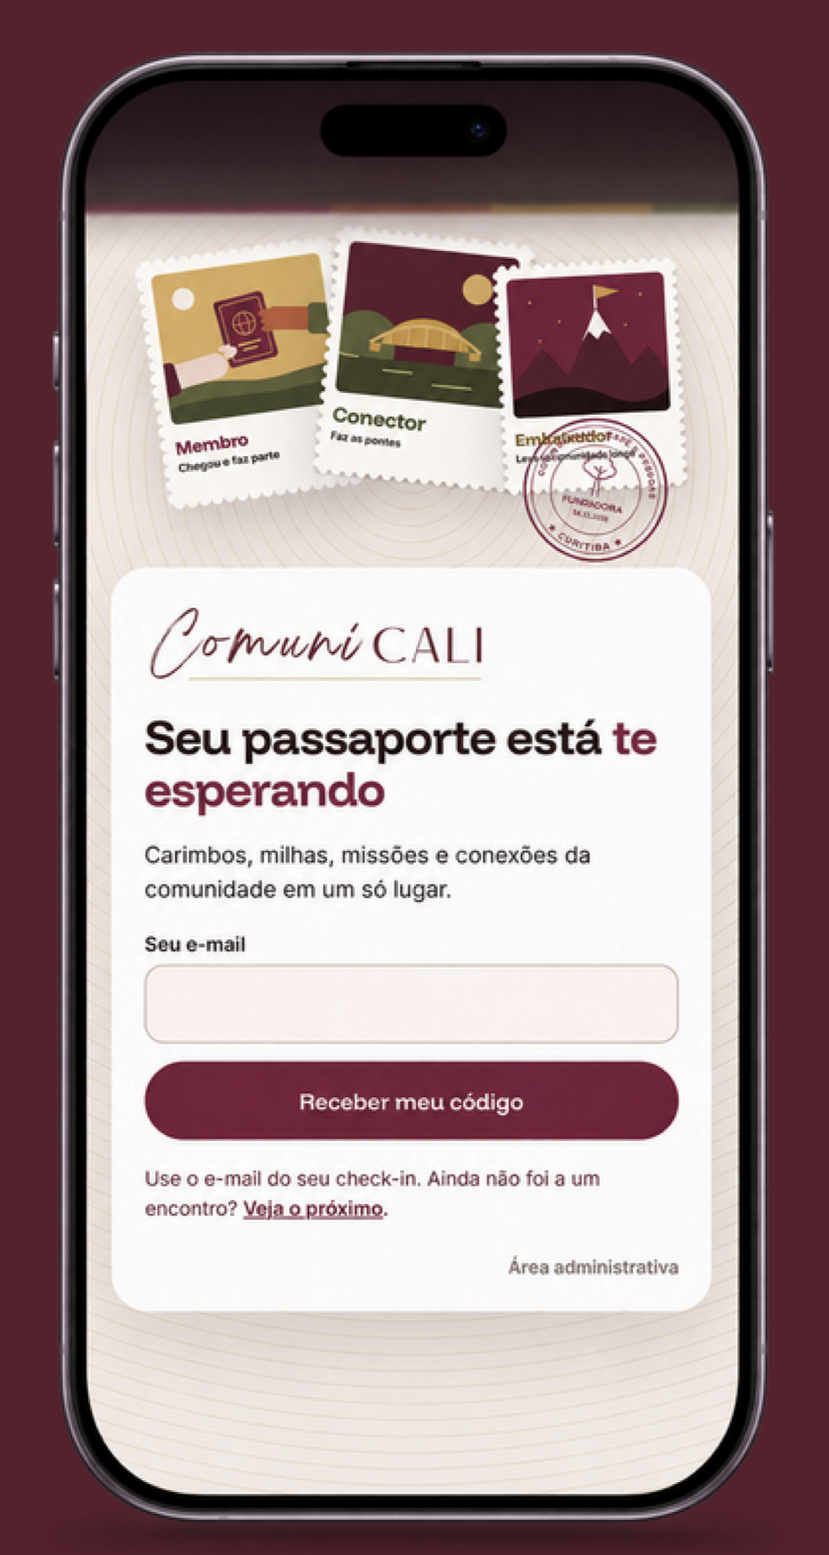
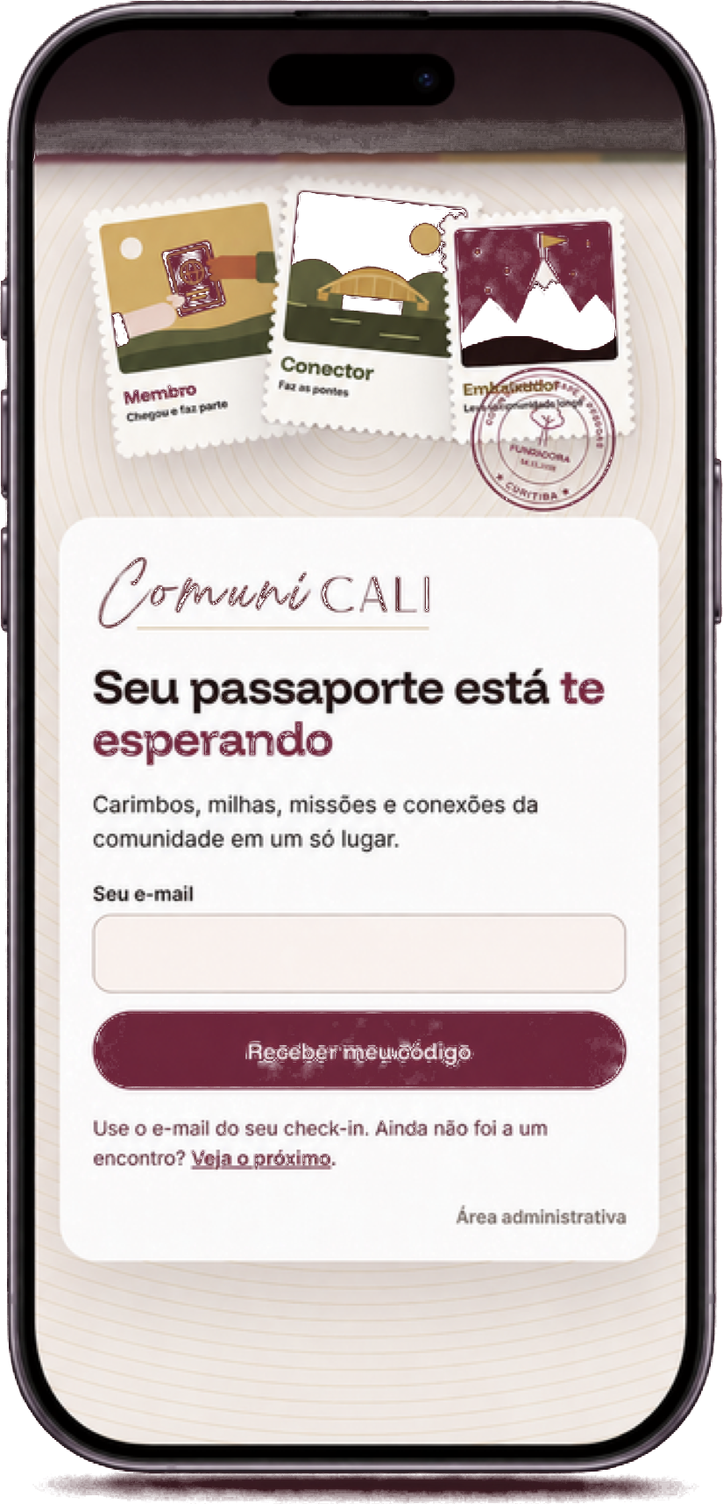
Versão nova mais limpa: selos empilhados que viram, comunidade curta, app menor, fundo claro na jornada e animações suaves

diff --git a/src/pages/Home.tsx b/src/pages/Home.tsx
@@ -119,64 +119,58 @@ const PASSAPORTE = [
   ['Milhas', 'Tudo o que você vive na comunidade soma milhas e mostra até onde a sua jornada já chegou.'],
 ];
 
-const PEOPLE_CARDS = ['fundadora', 'embaixadores'] as const;
-
 function People({ joinHref }: { joinHref: string }) {
-  const [current, setCurrent] = useState(0);
+  void joinHref;
   return (
-    <div className="people">
-      <div className="people__track" style={{ '--current': current } as CSSProperties}>
-        <article className={`person${current === 0 ? ' is-on' : ''}`}>
-          <div className="person__photo">
-            <img src="/fotos/patricia-lima.jpg" alt="Patrícia Lima" />
-            <span className="person__carimbo"><small>ComuniCALI</small>Idealizadora</span>
-          </div>
-          <div className="person__body">
-            <h3>Patrícia Lima</h3>
-            <p className="muted">People Advisory Executive, fundadora da CALI RH</p>
-            <p>Há <strong>mais de 16 anos</strong> no planejamento do RH das empresas, ao lado de lideranças e equipes. Criou a ComuniCALI para que a <strong>conversa sobre pessoas</strong> saísse dos grupos de repasse e virasse <strong>relacionamento</strong>.</p>
-            <a className="outline" href="https://www.linkedin.com/in/patriciaazumi/" target="_blank" rel="noopener noreferrer">Conhecer no LinkedIn</a>
-          </div>
-        </article>
-        <article className={`person person--selo${current === 1 ? ' is-on' : ''}`}>
-          <div className="person__selo"><img src="/selos/postal-embaixador.png" alt="Selo Embaixador" /></div>
-          <div className="person__body">
-            <p className="tag">Embaixadores</p>
-            <h3>Quem contribui, a comunidade reconhece.</h3>
-            <p>Quem participa, contribui e conecta pessoas pode se tornar <strong>embaixador</strong> da ComuniCALI. O caminho começa como visitante, passa por membro e conector, e <strong>leva a comunidade longe</strong>.</p>
-            <a className="outline" href="#programa">Ver a jornada</a>
-          </div>
-        </article>
+    <article className="person is-on">
+      <div className="person__photo">
+        <img src="/fotos/patricia-lima.jpg" alt="Patrícia Lima" />
+        <span className="person__carimbo"><small>ComuniCALI</small>Idealizadora</span>
       </div>
-      <div className="people__nav">
-        {PEOPLE_CARDS.map((card, index) => <button key={card} type="button" aria-label={`Ver cartão ${index + 1}`} className={index === current ? 'is-on' : ''} onClick={() => setCurrent(index)} />)}
-        <button type="button" className="people__next" aria-label="Próximo cartão" onClick={() => setCurrent((current + 1) % PEOPLE_CARDS.length)}><ArrowRight size={16} aria-hidden="true" /></button>
+      <div className="person__body">
+        <h3>Patrícia Lima</h3>
+        <p className="muted">People Advisory Executive, fundadora da CALI RH</p>
+        <p>Há mais de 16 anos no planejamento do RH das empresas. Criou a ComuniCALI para que a conversa sobre pessoas virasse relacionamento.</p>
+        <a className="outline" href="https://www.linkedin.com/in/patriciaazumi/" target="_blank" rel="noopener noreferrer">Conhecer no LinkedIn</a>
       </div>
-    </div>
+    </article>
   );
 }
 
 const CATEGORIAS = [
-  ['convidado', 'Convidado', 'Chegou a convite', 'Quem é indicado por um membro e vem conhecer a comunidade no encontro. Ainda não pontua: a pontuação começa ao se tornar visitante.'],
-  ['visitante', 'Visitante', 'Chegando ao caminho', 'Conhece a comunidade nos encontros abertos, sem compromisso. É aqui que a sua participação começa a pontuar.'],
-  ['membro', 'Membro', 'Chegou e faz parte', 'Faz o cadastro gratuito e recebe o passaporte, com carimbos, milhas e as vantagens da comunidade.'],
-  ['conector', 'Conector', 'Faz as pontes', 'Aproxima pessoas e ideias dentro da comunidade. Chega por convite, depois de uma avaliação.'],
-  ['embaixador', 'Embaixador', 'Leva a comunidade longe', 'Ajuda a desenvolver a comunidade e a programação. Também chega por convite.'],
+  ['convidado', 'Convidado', 'Chegou a convite de um membro. Ainda não pontua.', -7, 0.55],
+  ['visitante', 'Visitante', 'Conhece a comunidade nos encontros abertos. Aqui a pontuação começa.', -3, 0.55],
+  ['membro', 'Membro', 'Faz o cadastro gratuito e ganha o passaporte, com milhas e vantagens.', 2, 0.55],
+  ['conector', 'Conector', 'Aproxima pessoas e ideias. Chega por convite.', 6, 0.55],
+  ['embaixador', 'Embaixador', 'Ajuda a desenvolver a comunidade. Chega por convite.', 0, 0.55],
 ] as const;
 
-/** Cinco selos: toque no cartão e ele vira, com uma explicação curta do que cada categoria é. */
+/** Selos empilhados, um sobre o outro. Com o mouse em cima, o selo cresce e vira sozinho; no celular, o toque vira. */
 function Selos() {
   const [aberto, setAberto] = useState<string | null>(null);
   return (
     <div className="selos" role="list">
-      {CATEGORIAS.map(([id, nome, frase, texto], indice) => (
-        <button key={id} type="button" role="listitem" style={{ ['--cor' as string]: ({ convidado: '#A9502E', visitante: '#5A1E2D', membro: '#7A1F3D', conector: '#4F5A2A', embaixador: '#8A6A1E' } as Record<string, string>)[id] }} className={`selo-card${aberto === id ? ' virado' : ''}`} aria-pressed={aberto === id} aria-label={`${nome}: ${frase}. Toque para ${aberto === id ? 'voltar' : 'saber mais'}`} onClick={() => setAberto(aberto === id ? null : id)}>
+      {CATEGORIAS.map(([id, nome, texto, giro], indice) => (
+        <button key={id} type="button" role="listitem" style={{ ['--r' as string]: `${giro}deg`, ['--z' as string]: indice + 1 }} className={`selo-card selo-card--${id}${aberto === id ? ' virado' : ''}`} aria-pressed={aberto === id} aria-label={`${nome}. ${texto}`} onClick={() => setAberto(aberto === id ? null : id)} onBlur={() => setAberto(null)}>
           <span className="selo-card__giro">
-            <span className="selo-card__lado selo-card__frente"><img src={`/selos/postal-${id}.png`} alt={`Selo ${nome}`} /><em>Toque para saber mais</em></span>
-            <span className="selo-card__lado selo-card__verso"><small>{String(indice + 1).padStart(2, '0')}</small><strong>{nome}</strong><i>{frase}</i><span>{texto}</span></span>
+            <span className="selo-card__lado selo-card__frente"><img src={`/selos/postal-${id}.png`} alt={`Selo ${nome}`} /></span>
+            <span className="selo-card__lado selo-card__verso"><strong>{nome}</strong><span>{texto}</span></span>
           </span>
         </button>
       ))}
+    </div>
+  );
+}
+
+const MOCKUPS = ['/app/mockup-passaporte.png'];
+
+/** Celular com o aplicativo. Hoje há uma tela; quando houver mais, elas trocam sozinhas, com transição. */
+function Celular() {
+  const [i, setI] = useState(0);
+  useEffect(() => { if (MOCKUPS.length < 2) return undefined; const t = window.setInterval(() => setI((x) => (x + 1) % MOCKUPS.length), 4200); return () => window.clearInterval(t); }, []);
+  return (
+    <div className="app__celular">
+      {MOCKUPS.map((src, n) => <img key={src} className={n === i ? 'is-on' : ''} src={src} alt="Tela do passaporte da comunidade, no celular" loading="lazy" />)}
     </div>
   );
 }
@@ -192,7 +186,19 @@ const APP_ITENS = [
   ['Seu perfil', 'Deixe seu Instagram e seus dados.'],
 ];
 
+/** Faz os blocos entrarem suavemente quando aparecem na tela. */
+function useAparecer() {
+  useEffect(() => {
+    const alvos = Array.from(document.querySelectorAll<HTMLElement>('.home .block__head, .home .founder__text > *, .home .founder .person, .home .selos, .home .caminho article, .home .passaporte article, .home .app__lista li, .home .app__celular, .home .stats .stat'));
+    if (!('IntersectionObserver' in window) || window.matchMedia('(prefers-reduced-motion: reduce)').matches) return undefined;
+    const obs = new IntersectionObserver((itens) => itens.forEach((item) => { if (item.isIntersecting) { item.target.classList.add('is-in'); obs.unobserve(item.target); } }), { threshold: 0.12, rootMargin: '0px 0px -6% 0px' });
+    alvos.forEach((el, n) => { el.classList.add('aparece'); el.style.setProperty('--d', `${(n % 4) * 90}ms`); obs.observe(el); });
+    return () => obs.disconnect();
+  }, []);
+}
+
 export function Home() {
+  useAparecer();
   const [qr, setQr] = useState('');
   const [editions, setEditions] = useState<EditionRow[]>([]);
   const [photos, setPhotos] = useState<Photo[]>([]);
@@ -240,7 +246,6 @@ export function Home() {
       <header className="hero">
         <Arches photos={photos} />
         <div className="wrap hero__body">
-          <p className="hero__sign">Uma comunidade da CALI RH</p>
           <h1>Falar de pessoas <em>pode mudar o mundo.</em></h1>
           <p className="hero__text">Cada pessoa chega com sua própria bagagem. Quando histórias diferentes se encontram, novos caminhos aparecem.</p>
           <div className="hero__actions">
@@ -260,14 +265,9 @@ export function Home() {
         <div className="founder__text">
           <p className="eyebrow">A comunidade</p>
           <h2>Caminhos que se cruzam <em>e seguem juntos.</em></h2>
-          <p className="founder__lead">A ComuniCALI reúne <strong>quem se interessa por gente</strong>: profissionais de RH, lideranças, empreendedores e todas as pessoas que querem falar de <strong>gestão e desenvolvimento humano</strong>.</p>
-          <blockquote className="founder__frase">Cada pessoa chega com a <strong>sua bagagem</strong>. Quando escutamos alguém, <strong>descobrimos caminhos</strong> que talvez nunca percorreríamos sozinhos.</blockquote>
-          <div className="founder__info">
-            <article><small>Como nasceu</small><p>Nos <strong>canais digitais</strong>, e ganhou vida nos <strong>encontros presenciais</strong>, em Curitiba.</p></article>
-            <article><small>Como funciona</small><p>A conversa <strong>continua entre um encontro e outro</strong>, no grupo, com pessoas do Brasil inteiro.</p></article>
-            <article><small>Quem organiza</small><p>A <strong>CALI RH</strong>, com <strong>escuta, respeito e coragem</strong> para debater temas difíceis.</p></article>
-          </div>
-          <p className="founder__fim">Acreditamos que <strong>nenhum encontro acontece por acaso</strong>. Servimos às pessoas com fé e integridade, e damos <strong>toda honra a Deus</strong> por cada caminho que se cruza aqui.</p>
+          <p className="founder__lead">Reunimos <strong>quem se interessa por gente</strong>: RH, lideranças, empreendedores e todas as pessoas que querem falar de gestão e desenvolvimento humano.</p>
+          <p>A conversa nasceu nos canais digitais, ganhou vida nos encontros e <strong>continua entre um encontro e outro</strong>.</p>
+          <p className="founder__fim">Nenhum encontro acontece por acaso. Toda honra a Deus.</p>
         </div>
         <People joinHref={joinHref} />
       </section>
@@ -324,17 +324,18 @@ export function Home() {
         </div>
       </section>
 
-      <section className="app" id="aplicativo">
-        <div className="wrap app__grade">
-          <div className="app__texto">
-            <p className="eyebrow">O aplicativo</p>
-            <p className="app__exclusivo">Exclusivo para membros oficiais da comunidade</p>
+      <section className="wrap block" id="aplicativo">
+        <div className="block__head">
+          <div>
+            <p className="eyebrow">O aplicativo · exclusivo para membros</p>
             <h2>Seu passaporte <em>está te esperando.</em></h2>
-            <ul className="app__lista">
-              {APP_ITENS.map(([titulo, texto]) => <li key={titulo}><strong>{titulo}</strong><span>{texto}</span></li>)}
-            </ul>
           </div>
-          <div className="app__celular"><img src="/app/mockup-passaporte.png" alt="Tela de entrada do passaporte da comunidade, no celular" loading="lazy" /></div>
+        </div>
+        <div className="app__grade">
+          <ul className="app__lista">
+            {APP_ITENS.map(([titulo, texto]) => <li key={titulo}><strong>{titulo}</strong><span>{texto}</span></li>)}
+          </ul>
+          <Celular />
         </div>
       </section>
 

diff --git a/src/home.css b/src/home.css
@@ -388,59 +388,64 @@ html{scroll-behavior:smooth}
 .escalas2__mini{display:none}
 @media (max-width:860px){.escalas2{grid-template-columns:1fr;gap:0}.escalas2__foto{display:none}.escalas2__lista article{min-height:0;opacity:1;padding:22px 0}.escalas2__mini{display:block;width:100%;aspect-ratio:16/10;object-fit:cover;border-radius:16px;margin-bottom:6px}}
 
-/* ===== Novidades da versão nova: faixa das quatro cores, comunidade, selos que viram e aplicativo ===== */
+/* ===== Versão nova: pouca cor, selos sobrepostos e animações suaves ===== */
 :root{--faixa:linear-gradient(90deg,#7A1F3D 0 25%,#A9502E 25% 50%,#C9973B 50% 75%,#5F6238 75%)}
-.nav::after{content:'';position:absolute;left:0;right:0;bottom:-1px;height:5px;background:var(--faixa)}
-.block__head h2::after,.founder__text h2::after,.app__texto h2::after{content:'';display:block;width:104px;height:6px;margin-top:16px;border-radius:99px;background:var(--faixa)}
-.caminho article{position:relative;overflow:hidden}
-.caminho article::before{content:'';position:absolute;left:0;right:0;top:0;height:7px;background:var(--faixa)}
-.person{position:relative}
-.person::before{content:'';position:absolute;left:0;right:0;top:0;height:6px;z-index:2;background:var(--faixa)}
-.founder{align-items:start}
-.founder__lead{font-size:18px;line-height:1.6;color:var(--text)}
-.founder__frase{margin:4px 0;padding:18px 22px;border-left:4px solid var(--gold);border-radius:0 14px 14px 0;background:rgba(201,151,59,.09);font:500 20px/1.5 var(--display);color:var(--text)}
-.founder__info{display:grid;grid-template-columns:repeat(3,minmax(0,1fr));gap:12px;width:100%}
-.founder__info article{position:relative;overflow:hidden;padding:20px 16px 16px;border:1px solid var(--edge);border-radius:14px;background:var(--panel)}
-.founder__info article::before{content:'';position:absolute;left:0;right:0;top:0;height:5px;background:var(--faixa)}
-.founder__info small{display:block;margin-bottom:6px;font:700 11px Inter,sans-serif;letter-spacing:.16em;text-transform:uppercase;color:var(--gold-2)}
-.founder__info p{margin:0;font-size:14px;line-height:1.55;color:var(--soft)}
-.founder__fim{margin-top:2px}
-.person--selo .person__selo{display:grid;place-items:center;padding:34px 0 10px;background:radial-gradient(circle at 50% 35%,rgba(201,151,59,.28),transparent 62%),var(--panel-2)}
-.person--selo .person__selo img{width:190px;height:auto;transform:rotate(-3deg);filter:drop-shadow(0 14px 22px rgba(0,0,0,.45))}
-.person--selo .person__body{padding-top:16px}
-.person__body h3{font-size:22px;line-height:1.2}
-
-/* Selos que viram */
-.selos{display:grid;grid-template-columns:repeat(5,minmax(0,1fr));gap:18px;margin-bottom:24px;perspective:1400px}
-.selo-card{all:unset;box-sizing:border-box;display:block;position:relative;aspect-ratio:4/5;cursor:pointer;-webkit-tap-highlight-color:transparent}
-.selo-card:focus-visible{outline:3px solid var(--gold-2);outline-offset:5px;border-radius:10px}
-.selo-card__giro{position:absolute;inset:0;transform-style:preserve-3d;transition:transform .7s cubic-bezier(.2,.7,.2,1)}
-.selo-card.virado .selo-card__giro{transform:rotateY(180deg)}
-.selo-card__lado{position:absolute;inset:0;backface-visibility:hidden;-webkit-backface-visibility:hidden}
-.selo-card__frente img{display:block;width:100%;height:100%;object-fit:contain;filter:drop-shadow(0 10px 16px rgba(0,0,0,.4))}
-.selo-card__frente em{position:absolute;left:50%;bottom:7%;transform:translateX(-50%);padding:5px 12px;border-radius:999px;background:rgba(31,14,20,.82);color:var(--gold-2);font:600 11px Inter,sans-serif;font-style:normal;white-space:nowrap;opacity:0;transition:opacity .25s}
-.selo-card:hover .selo-card__frente em,.selo-card:focus-visible .selo-card__frente em{opacity:1}
-.selo-card__verso{transform:rotateY(180deg);display:grid;align-content:center;gap:8px;padding:22px 20px;border-radius:10px;background:#FDFBF7;color:#22100F;text-align:left;outline:2px dashed rgba(90,30,45,.35);outline-offset:-10px;box-shadow:0 10px 18px rgba(0,0,0,.4)}
-.selo-card__verso small{font:700 11px Inter,sans-serif;letter-spacing:.2em;color:#8A7A70}
-.selo-card__verso strong{font:800 26px/1.05 'Funnel Display',Inter,sans-serif;color:var(--cor,#5A1E2D)}
-.selo-card__verso i{font:600 13px Inter,sans-serif;font-style:normal;color:#22100F}
-.selo-card__verso span{font:400 13.5px/1.5 Inter,sans-serif;color:#4A3832}
-@media (hover:none){.selo-card__frente em{opacity:1}}
-@media (max-width:980px){.selos{grid-template-columns:repeat(3,minmax(0,1fr))}.founder__info{grid-template-columns:1fr}}
-@media (max-width:560px){.selos{grid-template-columns:repeat(2,minmax(0,1fr))}}
-
-/* Aplicativo */
-.app{margin-top:72px;padding:84px 0;background:#53222D}
-.app__grade{display:grid;grid-template-columns:minmax(0,1.25fr) minmax(0,.75fr);gap:48px;align-items:center}
-.app__texto{display:grid;gap:12px;justify-items:start}
-.app__exclusivo{margin:0;font:italic 600 16px Inter,sans-serif;color:var(--gold-2)}
-.app__lista{list-style:none;margin:12px 0 0;padding:0;display:grid;grid-template-columns:repeat(2,minmax(0,1fr));gap:18px 28px;width:100%}
-.app__lista li{display:grid;gap:3px;padding-left:14px;border-left:3px solid var(--gold)}
-.app__lista strong{font:700 18px 'Funnel Display',Inter,sans-serif;color:#F7F0EA}
-.app__lista span{font-size:14.5px;line-height:1.5;color:#E3CFC4}
-.app__celular{display:grid;place-items:center}
-.app__celular img{display:block;width:min(340px,100%);height:auto;border-radius:44px}
-@media (max-width:900px){.app__grade{grid-template-columns:1fr}.app__lista{grid-template-columns:1fr}.app__celular{order:2}}
-
+.home h1,.home h2,.home h3{font-family:Inter,system-ui,sans-serif}
+.nav::after{content:'';position:absolute;left:0;right:0;bottom:-1px;height:4px;background:var(--faixa)}
 .site-footer{position:relative}
-.site-footer::before{content:"";position:absolute;left:0;right:0;top:0;height:6px;background:var(--faixa)}
+.site-footer::before{content:"";position:absolute;left:0;right:0;top:0;height:4px;background:var(--faixa)}
+
+/* Entrada suave ao rolar */
+.aparece{opacity:0;transform:translateY(24px);transition:opacity .8s ease,transform .8s cubic-bezier(.2,.7,.2,1);transition-delay:var(--d,0ms)}
+.aparece.is-in{opacity:1;transform:none}
+@media (prefers-reduced-motion:reduce){.aparece{opacity:1;transform:none;transition:none}}
+
+/* A comunidade, mais limpa */
+.founder{align-items:center;gap:64px;padding-top:96px;padding-bottom:104px}
+.founder__text{gap:18px;max-width:520px}
+.founder__text p{margin:0;font-size:16px;line-height:1.7}
+.founder__lead{font-size:19px!important;line-height:1.6!important;color:var(--text)}
+.founder__fim{color:var(--soft)!important;font-size:14.5px!important}
+.founder .person{flex:none;width:100%;max-width:420px;justify-self:end;opacity:1;filter:none;border-color:var(--edge)}
+.founder .person__photo{height:300px}
+.founder .person__body p{font-size:14.5px;line-height:1.6}
+
+/* Selos empilhados: crescem e viram ao passar o mouse */
+.selos{display:flex;justify-content:center;align-items:center;max-width:1080px;margin:0 auto;padding:40px 0 84px}
+.selo-card{all:unset;box-sizing:border-box;display:block;position:relative;flex:0 0 auto;width:clamp(150px,17vw,210px);aspect-ratio:4/5;margin-left:calc(clamp(150px,17vw,210px) * -.2);cursor:pointer;z-index:var(--z);transform:rotate(var(--r));transition:transform .55s cubic-bezier(.2,.7,.2,1);-webkit-tap-highlight-color:transparent}
+.selo-card:first-child{margin-left:0}
+.selo-card--embaixador{width:clamp(182px,21vw,256px);margin-left:calc(clamp(150px,17vw,210px) * -.14)}
+.selo-card--convidado{--cor:#A9502E}.selo-card--visitante{--cor:#5A1E2D}.selo-card--membro{--cor:#7A1F3D}.selo-card--conector{--cor:#4F5A2A}.selo-card--embaixador{--cor:#8A6A1E}
+.selo-card__giro{position:absolute;inset:0;transform-style:preserve-3d;transition:transform .7s cubic-bezier(.2,.7,.2,1)}
+.selo-card__lado{position:absolute;inset:0;backface-visibility:hidden;-webkit-backface-visibility:hidden}
+.selo-card__frente img{display:block;width:100%;height:100%;object-fit:contain;filter:drop-shadow(0 12px 18px rgba(0,0,0,.45))}
+.selo-card__verso{transform:rotateY(180deg);display:grid;align-content:center;justify-items:start;gap:10px;padding:17% 16%;background:url(/selos/postal-verso.png) center/100% 100% no-repeat;filter:drop-shadow(0 12px 18px rgba(0,0,0,.45));color:#22100F;text-align:left}
+.selo-card__verso strong{font:700 clamp(15px,1.5vw,19px)/1.1 Inter,sans-serif;color:var(--cor)}
+.selo-card__verso span{font:400 clamp(11.5px,1vw,13px)/1.45 Inter,sans-serif;color:#4A3832}
+.selo-card:focus-visible{outline:2px solid var(--gold-2);outline-offset:6px;border-radius:10px}
+@media (hover:hover){.selo-card:hover{transform:rotate(0) scale(1.28);z-index:20}.selo-card:hover .selo-card__giro{transform:rotateY(180deg)}}
+.selo-card.virado{transform:rotate(0) scale(1.28);z-index:20}
+.selo-card.virado .selo-card__giro{transform:rotateY(180deg)}
+@media (max-width:820px){
+  .selos{display:grid;grid-template-columns:repeat(2,minmax(0,1fr));gap:22px;padding:24px 0 48px}
+  .selo-card,.selo-card--embaixador{width:100%;margin:0;transform:none}
+  .selo-card--embaixador{grid-column:1/-1;max-width:240px;justify-self:center}
+  .selo-card.virado{transform:scale(1.04)}
+}
+
+/* Aplicativo: mesma largura das outras seções */
+.app__grade{display:grid;grid-template-columns:minmax(0,1fr) 250px;gap:56px;align-items:center;margin-top:28px}
+.app__lista{list-style:none;margin:0;padding:0;display:grid;grid-template-columns:repeat(2,minmax(0,1fr));gap:12px 18px}
+.app__lista li{display:grid;gap:3px;padding:14px 16px;border:1px solid var(--edge);border-radius:14px;background:var(--panel);transition:transform .3s ease,border-color .3s ease}
+.app__lista li:hover{transform:translateY(-3px);border-color:rgba(201,151,59,.5)}
+.app__lista strong{font:700 16px Inter,sans-serif;color:var(--text)}
+.app__lista span{font-size:13.5px;line-height:1.45;color:var(--soft)}
+.app__celular{position:relative;width:230px;aspect-ratio:945/1773;justify-self:center;animation:celular-flutua 6s ease-in-out infinite}
+.app__celular img{position:absolute;inset:0;width:100%;height:100%;object-fit:contain;opacity:0;transform:translateY(18px) scale(.97);transition:opacity .9s ease,transform .9s ease;filter:drop-shadow(0 22px 28px rgba(0,0,0,.45))}
+.app__celular img.is-on{opacity:1;transform:none}
+@keyframes celular-flutua{0%,100%{translate:0 0}50%{translate:0 -10px}}
+@media (max-width:860px){.app__grade{grid-template-columns:1fr}.app__celular{order:-1}.app__lista{grid-template-columns:1fr}}
+@media (prefers-reduced-motion:reduce){.app__celular{animation:none}}
+
+/* Primeira vez: fundo claro, sem o amarelo forte */
+.faixa--mostarda::before{background:linear-gradient(160deg,#FBF6EE,#F0E4D3)!important}

diff --git a/index.html b/index.html
@@ -4,7 +4,7 @@
     <meta charset="UTF-8" />
     <meta name="viewport" content="width=device-width, initial-scale=1, viewport-fit=cover" />
     <meta name="theme-color" content="#1F0E14" />
-    <title>ComuniCALI | uma comunidade da CALI RH</title>
+    <title>ComuniCALI</title>
     <style>html,body{background:#1F0E14}#boot{min-height:100vh;display:grid;place-content:center;justify-items:center;gap:14px;padding:24px;color:#F7F0EA;font:15px system-ui,sans-serif;text-align:center}#boot button{padding:12px 22px;border:0;border-radius:999px;background:#C9973B;color:#22100F;font:600 15px system-ui,sans-serif}</style>
     <script>
       // Se um arquivo da página não chegar, tenta de novo e, se continuar sem vir, oferece recarregar.
@@ -23,7 +23,7 @@
       }, true);
     </script>
     <meta name="description" content="Comunidade de pessoas interessadas em gente, gestão e desenvolvimento humano. Falar de pessoas pode mudar o mundo." />
-    <meta property="og:title" content="ComuniCALI | uma comunidade da CALI RH" />
+    <meta property="og:title" content="ComuniCALI" />
     <meta property="og:description" content="Comunidade de pessoas interessadas em gente, gestão e desenvolvimento humano." />
     <meta property="og:image" content="https://comuni.calirh.com/og-comunidade.jpg?v=2" />
     <meta property="og:image:width" content="1200" />

diff --git a/docs/HANDOFF.md b/docs/HANDOFF.md
@@ -11,6 +11,7 @@ Documento único de continuidade entre as IAs que trabalham com Patrícia Lima. 
 ### 2026-11-14 | Versão nova do site (branch logo-nova, NÃO publicada): passaporte, comunidade, jornada, cores e cartão do WhatsApp
 - Pedido da Patrícia (14/11): cinco categorias (Convidado, Visitante, Membro, Conector, Embaixador) em cartões que viram com uma explicação curta (`Selos` em `Home.tsx`); seção "A comunidade" refeita (frase em destaque, três blocos Como nasceu / Como funciona / Quem organiza, cartão do Embaixador com selo, bio com "mais de 16 anos" conforme o deck de 14/11); "Comece a sua jornada" agora é Cadastre seu interesse, Entre no grupo e Interaja (saiu o check-in); faixa das quatro cores no topo do menu, nos títulos, nos cartões e no rodapé; seção "O aplicativo" com o celular do deck (`public/app/mockup-passaporte.png`) e as 8 funções do slide 9.
 - Marca: tirado "Café & Pessoas" do hero, do título da aba e do cartão do WhatsApp (provisório: "Uma comunidade da CALI RH", aguardando a escolha da Patrícia). Novo `public/og-comunidade.jpg` (1200x630, com os cinco selos; `?v=2` no `og:image` para renovar o cache) e ícones/favicon refeitos do logo empilhado.
+- Revisão (14/11, após a Patrícia ver a prévia): faixa das quatro cores só embaixo do menu e no rodapé (saiu dos títulos e cartões); seção A comunidade bem mais curta, sem o cartão do Embaixador; selos empilhados e inclinados, Embaixador maior e por cima, que crescem e viram sozinhos ao passar o mouse (verso com a mesma borda serrilhada, `public/selos/postal-verso.png`, uma frase curta; no celular o toque vira); seção do aplicativo no tamanho das outras, com entrada ao rolar e celular sem fundo que flutua (`MOCKUPS` aceita mais telas, com troca suave); "Primeira vez" em fundo claro; título da aba só "ComuniCALI"; imagem do WhatsApp com título em Inter (não na fonte da logo) e selos sobrepostos; entrada suave ao rolar (`useAparecer`).
 - Pendente: escolher a frase que substitui "Café & Pessoas"; não colocar no ar (decisão da Patrícia: só depois de ela falar).
 
 ### 2026-11-13 | Check-in como Visitante, e-mails do dia do encontro e correções (publicado)
